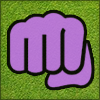
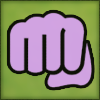
upgraded graphisms

diff --git a/style.css b/style.css
@@ -3,6 +3,7 @@
 	
 	float:left;
 	margin-left:-0px;
+	opacity:0.9;
 	
 /*	position:absolute;
 	margin-left:-190px;
@@ -13,6 +14,12 @@
 	height:1100px;
 	overflow: scroll;*/
 	
+}
+
+body {
+	background:#717ba8;
+	background-image: url('img/bg3.jpg');
+	/*background-size:75%;*/
 }
 
 #win {
@@ -100,16 +107,20 @@ input {
 	margin-top:-1110px;	
 	display:flex;
 	text-align:center;
+	opacity:0.8;
 	
 	}
 
 #action {
+	border:1px #545454 solid;
+	background: #e5e1cf;
 	box-shadow: inset 0 0 100px gold;	
-	width:600px;
+	width:603px;
 	height:300px;
 	float: left;
 	margin-top:-750px;	
 	margin-left:-350px;
+	opacity:0.8;
 	}
 
 table{
@@ -120,8 +131,9 @@ table{
 	border:1px #545454 solid;
 	width:250px;
 	height:300px;
-padding:25px;
-box-shadow: inset 0 0 10px #bfcfff;
+	padding:25px;
+	box-shadow: inset 0 0 10px #80a4ff;
+	background:#cfd3e5;
 
 }
 
@@ -131,7 +143,8 @@ box-shadow: inset 0 0 10px #bfcfff;
 	height:300px;
 	float:right;
 	padding:25px;
-box-shadow: inset 0 0 10px #ffcfbf;	
+	box-shadow: inset 0 0 10px #ff9b80;	
+	background:#e5d4cf;
 }
 
 #joueurs input[type='text']{
@@ -141,11 +154,11 @@ box-shadow: inset 0 0 10px #ffcfbf;
 }
 
 .active-joueur1{
-	 box-shadow: inset 0 0 100px #809fff;
+	 box-shadow: inset 0 0 100px #4e79e5;
 }
 
 .active-joueur2{
-	 box-shadow: inset 0 0 100px #ff9f80;
+	 box-shadow: inset 0 0 100px #e27250;
 }
 
 

diff --git a/js/launch.js b/js/launch.js
@@ -41,6 +41,8 @@ $(document).ready(function () {
 
 		let numItems = $('.item').length;
 		if (numItems >=10 ) { $(".item").eq(0).remove(); }
+		if (numItems >=10 ) { $(".item").eq(0).remove(); }
+		if (numItems >=10 ) { $(".item").eq(0).remove(); }
 
 		if ( player1.HP <= 0 ) { Victory(player2); }
 		if ( player2.HP <= 0 ) { Victory(player1); }
@@ -163,10 +165,10 @@ $(document).ready(function () {
 $('#defP1').on('click', function(){
 	if (player1.myTurn) {
 		player1.isAttacking=false;
-		endTurn(player1);
 		$("#liste").append("<li class='item'>"+player1.name+" choisit de se défendre</li>") ;
 		refresh();
 		$('#overlay').html("");
+		endTurn(player1);
 		return;
 	}
 });
@@ -185,11 +187,11 @@ $('#attP2').on('click', function(){
 
 
 $('#defP2').on('click', function(){
-	if (player1.myTurn) {
+	if (player2.myTurn) {
 		player2.isAttacking=false;
-		endTurn(player2);
 		$("#liste").append("<li class='item'>"+player2.name+" choisit de se défendre</li>") ;
 		$('#overlay').html("");
+		endTurn(player2);
 		refresh();
 		return;
 	}
